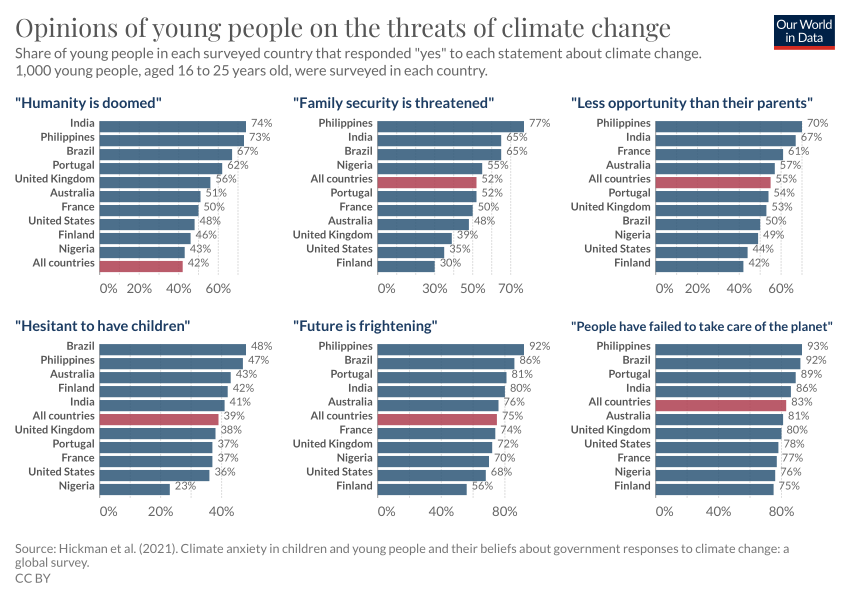
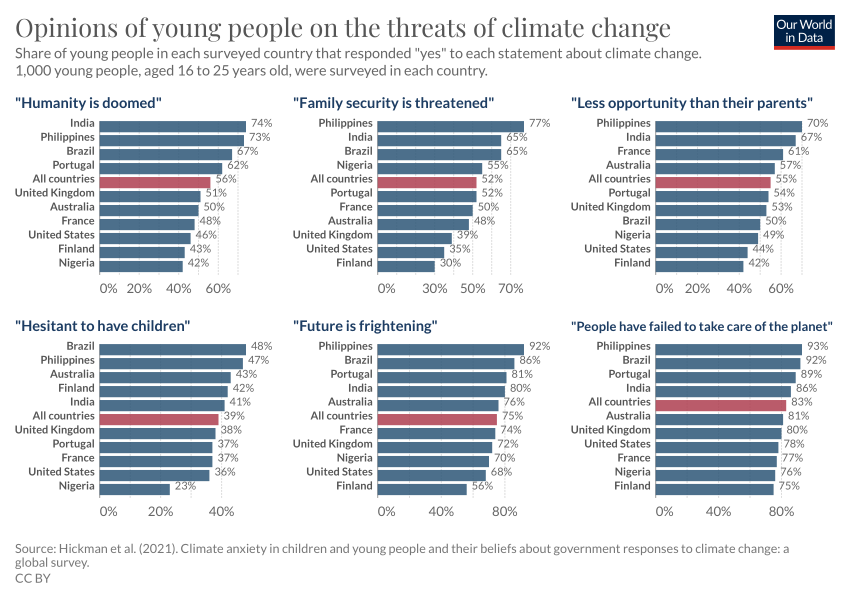
Deploy 2022-08-12T10:32:57.586Z Updating chart opinions-young-people-climate

Changed region(s): [[0.0, 0.27, 0.2447, 0.48]]

diff --git a/co2-emissions.html b/co2-emissions.html
@@ -1,4 +1,4 @@
-<!doctype html><html><head><meta name="viewport" content="width=device-width, initial-scale=1"/><title>CO2 emissions - Our World in Data</title><meta name="description" content="How much CO2 does the world emit? Which countries emit the most?"/><link rel="canonical" href="https://ourworldindata.org/co2-emissions"/><link rel="alternate" type="application/atom+xml" href="/atom.xml"/><link rel="apple-touch-icon" sizes="180x180" href="/apple-touch-icon.png"/><meta property="fb:app_id" content="1149943818390250"/><meta property="og:url" content="https://ourworldindata.org/co2-emissions"/><meta property="og:title" content="CO2 emissions"/><meta property="og:description" content="How much CO2 does the world emit? Which countries emit the most?"/><meta property="og:image" content="https://ourworldindata.org/uploads/2022/03/Screenshot-2022-03-04-at-16.51.31-768x480.png"/><meta property="og:site_name" content="Our World in Data"/><meta name="twitter:card" content="summary_large_image"/><meta name="twitter:site" content="@OurWorldInData"/><meta name="twitter:creator" content="@OurWorldInData"/><meta name="twitter:title" content="CO2 emissions"/><meta name="twitter:description" content="How much CO2 does the world emit? Which countries emit the most?"/><meta name="twitter:image" content="https://ourworldindata.org/uploads/2022/03/Screenshot-2022-03-04-at-16.51.31-768x480.png"/><link href="https://fonts.googleapis.com/css?family=Lato:300,400,400i,700,700i|Playfair+Display:400,700&amp;display=swap" rel="stylesheet"/><link rel="stylesheet" href="https://ourworldindata.org/assets/commons.css"/><link rel="stylesheet" href="https://ourworldindata.org/assets/owid.css"/><meta name="citation_title" content="CO₂ and Greenhouse Gas Emissions"/><meta name="citation_fulltext_html_url" content="https://ourworldindata.org/co2-and-other-greenhouse-gas-emissions"/><meta name="citation_fulltext_world_readable" content=""/><meta name="citation_publication_date" content="2020/05/11"/><meta name="citation_journal_title" content="Our World in Data"/><meta name="citation_journal_abbrev" content="Our World in Data"/><meta name="citation_author" content="Hannah Ritchie"/><meta name="citation_author" content="Max Roser"/><meta name="citation_author" content="Pablo Rosado"/></head><body class=""><header class="site-header"><div class="wrapper site-navigation-bar"><div class="site-logo"><a href="/">Our World<br/> in Data</a></div><nav class="site-navigation"><div class="topics-button-wrapper"><a href="/#entries" class="topics-button"><div class="label">Articles <br/><strong>by topic</strong></div><div class="icon"><svg width="12" height="6"><path d="M0,0 L12,0 L6,6 Z" fill="currentColor"></path></svg></div></a></div><div><div class="site-primary-navigation"><form class="HeaderSearch" action="/search" method="GET"><input type="search" name="q" placeholder="Search..."/><div class="icon"><svg aria-hidden="true" focusable="false" data-prefix="fas" data-icon="magnifying-glass" class="svg-inline--fa fa-magnifying-glass " role="img" xmlns="http://www.w3.org/2000/svg" viewBox="0 0 512 512"><path fill="currentColor" d="M500.3 443.7l-119.7-119.7c27.22-40.41 40.65-90.9 33.46-144.7C401.8 87.79 326.8 13.32 235.2 1.723C99.01-15.51-15.51 99.01 1.724 235.2c11.6 91.64 86.08 166.7 177.6 178.9c53.8 7.189 104.3-6.236 144.7-33.46l119.7 119.7c15.62 15.62 40.95 15.62 56.57 0C515.9 484.7 515.9 459.3 500.3 443.7zM79.1 208c0-70.58 57.42-128 128-128s128 57.42 128 128c0 70.58-57.42 128-128 128S79.1 278.6 79.1 208z"></path></svg></div></form><ul class="site-primary-links"><li><a href="/blog" data-track-note="header-navigation">Latest</a></li><li><a href="/about" data-track-note="header-navigation">About</a></li><li><a href="/donate" data-track-note="header-navigation">Donate</a></li></ul></div><div class="site-secondary-navigation"><ul class="site-secondary-links"><li><a href="/charts" data-track-note="header-navigation">All charts</a></li><li><a href="https://sdg-tracker.org" data-track-note="header-navigation">Sustainable Development Goals Tracker</a></li></ul></div></div></nav><div class="header-logos-wrapper"><a href="https://www.oxfordmartin.ox.ac.uk/global-development" class="oxford-logo"><img src="https://ourworldindata.org/oms-logo.svg" alt="Oxford Martin School logo"/></a><a href="https://global-change-data-lab.org/" class="gcdl-logo"><img src="https://ourworldindata.org/gcdl-logo.svg" alt="Global Change Data Lab logo"/></a></div><div class="mobile-site-navigation"><button data-track-note="mobile-search-button"><svg aria-hidden="true" focusable="false" data-prefix="fas" data-icon="magnifying-glass" class="svg-inline--fa fa-magnifying-glass " role="img" xmlns="http://www.w3.org/2000/svg" viewBox="0 0 512 512"><path fill="currentColor" d="M500.3 443.7l-119.7-119.7c27.22-40.41 40.65-90.9 33.46-144.7C401.8 87.79 326.8 13.32 235.2 1.723C99.01-15.51-15.51 99.01 1.724 235.2c11.6 91.64 86.08 166.7 177.6 178.9c53.8 7.189 104.3-6.236 144.7-33.46l119.7 119.7c15.62 15.62 40.95 15.62 56.57 0C515.9 484.7 515.9 459.3 500.3 443.7zM79.1 208c0-70.58 57.42-128 128-128s128 57.42 128 128c0 70.58-57.42 128-128 128S79.1 278.6 79.1 208z"></path></svg></button><button data-track-note="mobile-newsletter-button"><svg aria-hidden="true" focusable="false" data-prefix="fas" data-icon="envelope-open-text" class="svg-inline--fa fa-envelope-open-text " role="img" xmlns="http://www.w3.org/2000/svg" viewBox="0 0 512 512"><path fill="currentColor" d="M256 417.1c-16.38 0-32.88-4.1-46.88-15.12L0 250.9v213.1C0 490.5 21.5 512 48 512h416c26.5 0 48-21.5 48-47.1V250.9l-209.1 151.1C288.9 412 272.4 417.1 256 417.1zM493.6 163C484.8 156 476.4 149.5 464 140.1v-44.12c0-26.5-21.5-48-48-48l-77.5 .0016c-3.125-2.25-5.875-4.25-9.125-6.5C312.6 29.13 279.3-.3732 256 .0018C232.8-.3732 199.4 29.13 182.6 41.5c-3.25 2.25-6 4.25-9.125 6.5L96 48c-26.5 0-48 21.5-48 48v44.12C35.63 149.5 27.25 156 18.38 163C6.75 172 0 186 0 200.8v10.62l96 69.37V96h320v184.7l96-69.37V200.8C512 186 505.3 172 493.6 163zM176 255.1h160c8.836 0 16-7.164 16-15.1c0-8.838-7.164-16-16-16h-160c-8.836 0-16 7.162-16 16C160 248.8 167.2 255.1 176 255.1zM176 191.1h160c8.836 0 16-7.164 16-16c0-8.838-7.164-15.1-16-15.1h-160c-8.836 0-16 7.162-16 15.1C160 184.8 167.2 191.1 176 191.1z"></path></svg></button><button data-track-note="mobile-hamburger-button"><svg aria-hidden="true" focusable="false" data-prefix="fas" data-icon="bars" class="svg-inline--fa fa-bars " role="img" xmlns="http://www.w3.org/2000/svg" viewBox="0 0 448 512"><path fill="currentColor" d="M0 96C0 78.33 14.33 64 32 64H416C433.7 64 448 78.33 448 96C448 113.7 433.7 128 416 128H32C14.33 128 0 113.7 0 96zM0 256C0 238.3 14.33 224 32 224H416C433.7 224 448 238.3 448 256C448 273.7 433.7 288 416 288H32C14.33 288 0 273.7 0 256zM416 448H32C14.33 448 0 433.7 0 416C0 398.3 14.33 384 32 384H416C433.7 384 448 398.3 448 416C448 433.7 433.7 448 416 448z"></path></svg></button></div></div></header><div class="alert-banner"><div class="content"><div class="text"><strong>COVID-19 vaccinations, cases, excess mortality, and much more</strong></div><a href="/coronavirus#explore-the-global-situation" data-track-note="covid-banner-click">Explore our COVID-19 data</a></div></div><main><article class="page with-sidebar large-banner"><div class="offset-header"><header class="article-header"><div class="article-titles"><h1 class="entry-title">CO2 emissions</h1><div class="breadcrumb"><a href="/">Home</a><span class="separator"><svg aria-hidden="true" focusable="false" data-prefix="fas" data-icon="angle-right" class="svg-inline--fa fa-angle-right " role="img" xmlns="http://www.w3.org/2000/svg" viewBox="0 0 256 512"><path fill="currentColor" d="M64 448c-8.188 0-16.38-3.125-22.62-9.375c-12.5-12.5-12.5-32.75 0-45.25L178.8 256L41.38 118.6c-12.5-12.5-12.5-32.75 0-45.25s32.75-12.5 45.25 0l160 160c12.5 12.5 12.5 32.75 0 45.25l-160 160C80.38 444.9 72.19 448 64 448z"></path></svg></span><a data-track-note="breadcrumb" href="/co2-and-other-greenhouse-gas-emissions">CO₂ and GHG Emissions</a><span class="separator"><svg aria-hidden="true" focusable="false" data-prefix="fas" data-icon="angle-right" class="svg-inline--fa fa-angle-right " role="img" xmlns="http://www.w3.org/2000/svg" viewBox="0 0 256 512"><path fill="currentColor" d="M64 448c-8.188 0-16.38-3.125-22.62-9.375c-12.5-12.5-12.5-32.75 0-45.25L178.8 256L41.38 118.6c-12.5-12.5-12.5-32.75 0-45.25s32.75-12.5 45.25 0l160 160c12.5 12.5 12.5 32.75 0 45.25l-160 160C80.38 444.9 72.19 448 64 448z"></path></svg></span><span>CO₂ emissions</span></div></div><div class="authors-byline"><a href="/team">by Hannah Ritchie and Max Roser</a></div><div class="tools"><a href="#licence"><svg aria-hidden="true" focusable="false" data-prefix="fab" data-icon="creative-commons" class="svg-inline--fa fa-creative-commons " role="img" xmlns="http://www.w3.org/2000/svg" viewBox="0 0 496 512"><path fill="currentColor" d="M245.8 214.9l-33.22 17.28c-9.43-19.58-25.24-19.93-27.46-19.93-22.13 0-33.22 14.61-33.22 43.84 0 23.57 9.21 43.84 33.22 43.84 14.47 0 24.65-7.09 30.57-21.26l30.55 15.5c-6.17 11.51-25.69 38.98-65.1 38.98-22.6 0-73.96-10.32-73.96-77.05 0-58.69 43-77.06 72.63-77.06 30.72-.01 52.7 11.95 65.99 35.86zm143.1 0l-32.78 17.28c-9.5-19.77-25.72-19.93-27.9-19.93-22.14 0-33.22 14.61-33.22 43.84 0 23.55 9.23 43.84 33.22 43.84 14.45 0 24.65-7.09 30.54-21.26l31 15.5c-2.1 3.75-21.39 38.98-65.09 38.98-22.69 0-73.96-9.87-73.96-77.05 0-58.67 42.97-77.06 72.63-77.06 30.71-.01 52.58 11.95 65.56 35.86zM247.6 8.05C104.7 8.05 0 123.1 0 256c0 138.5 113.6 248 247.6 248 129.9 0 248.4-100.9 248.4-248 0-137.9-106.6-248-248.4-248zm.87 450.8c-112.5 0-203.7-93.04-203.7-202.8 0-105.4 85.43-203.3 203.7-203.3 112.5 0 202.8 89.46 202.8 203.3-.01 121.7-99.68 202.8-202.8 202.8z"></path></svg>Reuse our work freely</a><a href="#citation"><svg aria-hidden="true" focusable="false" data-prefix="fas" data-icon="book" class="svg-inline--fa fa-book " role="img" xmlns="http://www.w3.org/2000/svg" viewBox="0 0 448 512"><path fill="currentColor" d="M448 336v-288C448 21.49 426.5 0 400 0H96C42.98 0 0 42.98 0 96v320c0 53.02 42.98 96 96 96h320c17.67 0 32-14.33 32-31.1c0-11.72-6.607-21.52-16-27.1v-81.36C441.8 362.8 448 350.2 448 336zM143.1 128h192C344.8 128 352 135.2 352 144C352 152.8 344.8 160 336 160H143.1C135.2 160 128 152.8 128 144C128 135.2 135.2 128 143.1 128zM143.1 192h192C344.8 192 352 199.2 352 208C352 216.8 344.8 224 336 224H143.1C135.2 224 128 216.8 128 208C128 199.2 135.2 192 143.1 192zM384 448H96c-17.67 0-32-14.33-32-32c0-17.67 14.33-32 32-32h288V448z"></path></svg>Cite this research</a></div></header></div><div class="offset-subnavigation"><div class="site-subnavigation"><div class="site-subnavigation-scroll"><ul class="site-subnavigation-links"><li class="highlight"><a href="/co2-and-other-greenhouse-gas-emissions" data-track-note="co2-subnav-co2-and-ghg-emissions">CO₂ and GHG Emissions<svg aria-hidden="true" focusable="false" data-prefix="fas" data-icon="chevron-left" class="svg-inline--fa fa-chevron-left " role="img" xmlns="http://www.w3.org/2000/svg" viewBox="0 0 320 512"><path fill="currentColor" d="M224 480c-8.188 0-16.38-3.125-22.62-9.375l-192-192c-12.5-12.5-12.5-32.75 0-45.25l192-192c12.5-12.5 32.75-12.5 45.25 0s12.5 32.75 0 45.25L77.25 256l169.4 169.4c12.5 12.5 12.5 32.75 0 45.25C240.4 476.9 232.2 480 224 480z"></path></svg></a></li><li class=""><a href="/co2-and-other-greenhouse-gas-emissions#co2-and-greenhouse-gas-emissions-country-profiles" data-track-note="co2-subnav-by-country">By country</a></li><li class=""><a href="/explorers/co2" data-track-note="co2-subnav-co2-data-explorer">Data explorer</a></li><li class="current"><a href="/co2-emissions" data-track-note="co2-subnav-co2-emissions">CO₂ emissions</a></li><li class=""><a href="/emissions-by-fuel" data-track-note="co2-subnav-by-fuel">CO₂ by fuel</a></li><li class=""><a href="/greenhouse-gas-emissions" data-track-note="co2-subnav-ghg-emissions">GHG emissions</a></li><li class=""><a href="/emissions-by-sector" data-track-note="co2-subnav-by-sector">By sector</a></li><li class=""><a href="/atmospheric-concentrations" data-track-note="co2-subnav-atm-concentrations">Atmospheric concentrations</a></li><li class=""><a href="/explorers/climate-change" data-track-note="co2-subnav-climate-impacts">Climate impacts</a></li></ul></div></div></div><div class="content-wrapper"><div class="toc-wrapper"><aside class="entry-sidebar"><div class="sticky-sentinel"></div><nav class="entry-toc"><ul><li><a href="#" data-track-note="toc-header">CO2 emissions</a></li><li class="section"><a href="#global-co2-emissions-from-fossil-fuels" data-track-note="toc-link">Global CO2 emissions from fossil fuels</a></li><li class="subsection"><a href="#global-co2-emissions-from-fossil-fuels-global-co2-emissions-from-fossil-fuels" data-track-note="toc-link">Global CO2 emissions from fossil fuels</a></li><li class="subsection"><a href="#global-co2-emissions-from-fossil-fuels-and-land-use-change" data-track-note="toc-link">Global CO2 emissions from fossil fuels and land use change</a></li><li class="subsection"><a href="#co2-emissions-by-region" data-track-note="toc-link">CO2 emissions by region</a></li><li class="section"><a href="#per-capita-co2-emissions" data-track-note="toc-link">Per capita CO2 emissions</a></li><li class="section"><a href="#annual-co2-emissions" data-track-note="toc-link">Annual CO2 emissions</a></li><li class="section"><a href="#annual-change-in-co2-emissions" data-track-note="toc-link">Annual change in CO2 emissions</a></li><li class="section"><a href="#cumulative-co2-emissions" data-track-note="toc-link">Cumulative CO2 emissions</a></li><li class="section"><a href="#consumption-based-trade-adjusted-emissions" data-track-note="toc-link">Consumption-based (trade-adjusted) emissions</a></li><li class="section"><a href="#decoupling-co2-emissions-from-economic-growth" data-track-note="toc-link">Decoupling CO₂ emissions from economic growth</a></li><li class="section"><a href="#global-inequalities-in-co2-emissions" data-track-note="toc-link">Global inequalities in CO2 emissions</a></li><li class="subsection"><a href="#global-inequalities-by-production" data-track-note="toc-link">Global inequalities by production</a></li><li class="subsection"><a href="#global-inequalities-by-consumption" data-track-note="toc-link">Global inequalities by consumption</a></li><li class="section"><a href="#how-do-we-measure-or-estimate-co2-emissions" data-track-note="toc-link">How do we measure or estimate CO2 emissions?</a></li><li class="section"><a href="#endnotes" data-track-note="toc-link">Endnotes</a></li><li class="section"><a href="#licence" data-track-note="toc-link">Licence</a></li><li class="section"><a href="#citation" data-track-note="toc-link">Citation</a></li></ul></nav><div class="toggle-toc"><button data-track-note="page-toggle-toc" aria-label="Open table of contents"><svg aria-hidden="true" focusable="false" data-prefix="fas" data-icon="bars" class="svg-inline--fa fa-bars " role="img" xmlns="http://www.w3.org/2000/svg" viewBox="0 0 448 512"><path fill="currentColor" d="M0 96C0 78.33 14.33 64 32 64H416C433.7 64 448 78.33 448 96C448 113.7 433.7 128 416 128H32C14.33 128 0 113.7 0 96zM0 256C0 238.3 14.33 224 32 224H416C433.7 224 448 238.3 448 256C448 273.7 433.7 288 416 288H32C14.33 288 0 273.7 0 256zM416 448H32C14.33 448 0 433.7 0 416C0 398.3 14.33 384 32 384H416C433.7 384 448 398.3 448 416C448 433.7 433.7 448 416 448z"></path></svg><span class="label">Contents</span></button></div></aside></div><div class="offset-content"><div class="content-and-footnotes"><div class="article-content"><section><div class="wp-block-columns is-style-sticky-right"><div class="wp-block-column"><p>You can&nbsp;<strong><a href="https://github.com/owid/co2-data">download</a></strong>&nbsp;our complete <em>Our World in Data</em> CO<sub>2</sub> and Greenhouse Gas Emissions database.</p><hr class="wp-block-separator"><p>Carbon dioxide emissions are the primary driver of global climate change. It’s widely recognised that to avoid the worst impacts of climate change, the world needs to urgently reduce emissions. But, how this responsibility is shared between regions, countries, and individuals has been an endless point of contention in international discussions. </p><p>This debate arises from the various ways in which emissions are compared: as annual emissions by country; emissions per person; historical contributions; and whether they adjust for traded goods and services. These metrics can tell very different stories. </p><p>We teamed up with the YouTube channel, <em>Kurzgesagt</em>, to produce a video which explored these different metrics in detail: <a href="https://www.youtube.com/watch?v=ipVxxxqwBQw">‘Who is responsible for climate change? – Who needs to fix it?’</a>. All of the data and research featured in this video is contained in this article: below we look in detail at the many ways emissions are broken down.</p><div class="wp-container-62f625da0beb5 wp-block-group">    <div class="block-wrapper"><div class="wp-block-owid-prominent-link with-image" data-no-lightbox="true" data-style="is-style-thin" data-title="&nbsp;‘Who is responsible for climate change? – Who needs to fix it?’"><a href="https://www.youtube.com/watch?v=ipVxxxqwBQw"><figure><img width="768" height="433" src="https://ourworldindata.org/uploads/2020/06/CO2-Kurzgesagt-768x433.png" class="attachment-medium_large size-medium_large" alt="Co2 kurzgesagt" loading="lazy" srcset="https://ourworldindata.org/uploads/2020/06/CO2-Kurzgesagt-768x433.png 768w, https://ourworldindata.org/uploads/2020/06/CO2-Kurzgesagt-400x225.png 400w, https://ourworldindata.org/uploads/2020/06/CO2-Kurzgesagt-800x451.png 800w, https://ourworldindata.org/uploads/2020/06/CO2-Kurzgesagt-150x84.png 150w, https://ourworldindata.org/uploads/2020/06/CO2-Kurzgesagt.png 1422w" sizes="(max-width: 768px) 100vw, 768px" data-high-res-src="https://ourworldindata.org/uploads/2020/06/CO2-Kurzgesagt.png"></figure><div class="content-wrapper"><div class="content">
+<!doctype html><html><head><meta name="viewport" content="width=device-width, initial-scale=1"/><title>CO2 emissions - Our World in Data</title><meta name="description" content="How much CO2 does the world emit? Which countries emit the most?"/><link rel="canonical" href="https://ourworldindata.org/co2-emissions"/><link rel="alternate" type="application/atom+xml" href="/atom.xml"/><link rel="apple-touch-icon" sizes="180x180" href="/apple-touch-icon.png"/><meta property="fb:app_id" content="1149943818390250"/><meta property="og:url" content="https://ourworldindata.org/co2-emissions"/><meta property="og:title" content="CO2 emissions"/><meta property="og:description" content="How much CO2 does the world emit? Which countries emit the most?"/><meta property="og:image" content="https://ourworldindata.org/uploads/2022/03/Screenshot-2022-03-04-at-16.51.31-768x480.png"/><meta property="og:site_name" content="Our World in Data"/><meta name="twitter:card" content="summary_large_image"/><meta name="twitter:site" content="@OurWorldInData"/><meta name="twitter:creator" content="@OurWorldInData"/><meta name="twitter:title" content="CO2 emissions"/><meta name="twitter:description" content="How much CO2 does the world emit? Which countries emit the most?"/><meta name="twitter:image" content="https://ourworldindata.org/uploads/2022/03/Screenshot-2022-03-04-at-16.51.31-768x480.png"/><link href="https://fonts.googleapis.com/css?family=Lato:300,400,400i,700,700i|Playfair+Display:400,700&amp;display=swap" rel="stylesheet"/><link rel="stylesheet" href="https://ourworldindata.org/assets/commons.css"/><link rel="stylesheet" href="https://ourworldindata.org/assets/owid.css"/><meta name="citation_title" content="CO₂ and Greenhouse Gas Emissions"/><meta name="citation_fulltext_html_url" content="https://ourworldindata.org/co2-and-other-greenhouse-gas-emissions"/><meta name="citation_fulltext_world_readable" content=""/><meta name="citation_publication_date" content="2020/05/11"/><meta name="citation_journal_title" content="Our World in Data"/><meta name="citation_journal_abbrev" content="Our World in Data"/><meta name="citation_author" content="Hannah Ritchie"/><meta name="citation_author" content="Max Roser"/><meta name="citation_author" content="Pablo Rosado"/></head><body class=""><header class="site-header"><div class="wrapper site-navigation-bar"><div class="site-logo"><a href="/">Our World<br/> in Data</a></div><nav class="site-navigation"><div class="topics-button-wrapper"><a href="/#entries" class="topics-button"><div class="label">Articles <br/><strong>by topic</strong></div><div class="icon"><svg width="12" height="6"><path d="M0,0 L12,0 L6,6 Z" fill="currentColor"></path></svg></div></a></div><div><div class="site-primary-navigation"><form class="HeaderSearch" action="/search" method="GET"><input type="search" name="q" placeholder="Search..."/><div class="icon"><svg aria-hidden="true" focusable="false" data-prefix="fas" data-icon="magnifying-glass" class="svg-inline--fa fa-magnifying-glass " role="img" xmlns="http://www.w3.org/2000/svg" viewBox="0 0 512 512"><path fill="currentColor" d="M500.3 443.7l-119.7-119.7c27.22-40.41 40.65-90.9 33.46-144.7C401.8 87.79 326.8 13.32 235.2 1.723C99.01-15.51-15.51 99.01 1.724 235.2c11.6 91.64 86.08 166.7 177.6 178.9c53.8 7.189 104.3-6.236 144.7-33.46l119.7 119.7c15.62 15.62 40.95 15.62 56.57 0C515.9 484.7 515.9 459.3 500.3 443.7zM79.1 208c0-70.58 57.42-128 128-128s128 57.42 128 128c0 70.58-57.42 128-128 128S79.1 278.6 79.1 208z"></path></svg></div></form><ul class="site-primary-links"><li><a href="/blog" data-track-note="header-navigation">Latest</a></li><li><a href="/about" data-track-note="header-navigation">About</a></li><li><a href="/donate" data-track-note="header-navigation">Donate</a></li></ul></div><div class="site-secondary-navigation"><ul class="site-secondary-links"><li><a href="/charts" data-track-note="header-navigation">All charts</a></li><li><a href="https://sdg-tracker.org" data-track-note="header-navigation">Sustainable Development Goals Tracker</a></li></ul></div></div></nav><div class="header-logos-wrapper"><a href="https://www.oxfordmartin.ox.ac.uk/global-development" class="oxford-logo"><img src="https://ourworldindata.org/oms-logo.svg" alt="Oxford Martin School logo"/></a><a href="https://global-change-data-lab.org/" class="gcdl-logo"><img src="https://ourworldindata.org/gcdl-logo.svg" alt="Global Change Data Lab logo"/></a></div><div class="mobile-site-navigation"><button data-track-note="mobile-search-button"><svg aria-hidden="true" focusable="false" data-prefix="fas" data-icon="magnifying-glass" class="svg-inline--fa fa-magnifying-glass " role="img" xmlns="http://www.w3.org/2000/svg" viewBox="0 0 512 512"><path fill="currentColor" d="M500.3 443.7l-119.7-119.7c27.22-40.41 40.65-90.9 33.46-144.7C401.8 87.79 326.8 13.32 235.2 1.723C99.01-15.51-15.51 99.01 1.724 235.2c11.6 91.64 86.08 166.7 177.6 178.9c53.8 7.189 104.3-6.236 144.7-33.46l119.7 119.7c15.62 15.62 40.95 15.62 56.57 0C515.9 484.7 515.9 459.3 500.3 443.7zM79.1 208c0-70.58 57.42-128 128-128s128 57.42 128 128c0 70.58-57.42 128-128 128S79.1 278.6 79.1 208z"></path></svg></button><button data-track-note="mobile-newsletter-button"><svg aria-hidden="true" focusable="false" data-prefix="fas" data-icon="envelope-open-text" class="svg-inline--fa fa-envelope-open-text " role="img" xmlns="http://www.w3.org/2000/svg" viewBox="0 0 512 512"><path fill="currentColor" d="M256 417.1c-16.38 0-32.88-4.1-46.88-15.12L0 250.9v213.1C0 490.5 21.5 512 48 512h416c26.5 0 48-21.5 48-47.1V250.9l-209.1 151.1C288.9 412 272.4 417.1 256 417.1zM493.6 163C484.8 156 476.4 149.5 464 140.1v-44.12c0-26.5-21.5-48-48-48l-77.5 .0016c-3.125-2.25-5.875-4.25-9.125-6.5C312.6 29.13 279.3-.3732 256 .0018C232.8-.3732 199.4 29.13 182.6 41.5c-3.25 2.25-6 4.25-9.125 6.5L96 48c-26.5 0-48 21.5-48 48v44.12C35.63 149.5 27.25 156 18.38 163C6.75 172 0 186 0 200.8v10.62l96 69.37V96h320v184.7l96-69.37V200.8C512 186 505.3 172 493.6 163zM176 255.1h160c8.836 0 16-7.164 16-15.1c0-8.838-7.164-16-16-16h-160c-8.836 0-16 7.162-16 16C160 248.8 167.2 255.1 176 255.1zM176 191.1h160c8.836 0 16-7.164 16-16c0-8.838-7.164-15.1-16-15.1h-160c-8.836 0-16 7.162-16 15.1C160 184.8 167.2 191.1 176 191.1z"></path></svg></button><button data-track-note="mobile-hamburger-button"><svg aria-hidden="true" focusable="false" data-prefix="fas" data-icon="bars" class="svg-inline--fa fa-bars " role="img" xmlns="http://www.w3.org/2000/svg" viewBox="0 0 448 512"><path fill="currentColor" d="M0 96C0 78.33 14.33 64 32 64H416C433.7 64 448 78.33 448 96C448 113.7 433.7 128 416 128H32C14.33 128 0 113.7 0 96zM0 256C0 238.3 14.33 224 32 224H416C433.7 224 448 238.3 448 256C448 273.7 433.7 288 416 288H32C14.33 288 0 273.7 0 256zM416 448H32C14.33 448 0 433.7 0 416C0 398.3 14.33 384 32 384H416C433.7 384 448 398.3 448 416C448 433.7 433.7 448 416 448z"></path></svg></button></div></div></header><div class="alert-banner"><div class="content"><div class="text"><strong>COVID-19 vaccinations, cases, excess mortality, and much more</strong></div><a href="/coronavirus#explore-the-global-situation" data-track-note="covid-banner-click">Explore our COVID-19 data</a></div></div><main><article class="page with-sidebar large-banner"><div class="offset-header"><header class="article-header"><div class="article-titles"><h1 class="entry-title">CO2 emissions</h1><div class="breadcrumb"><a href="/">Home</a><span class="separator"><svg aria-hidden="true" focusable="false" data-prefix="fas" data-icon="angle-right" class="svg-inline--fa fa-angle-right " role="img" xmlns="http://www.w3.org/2000/svg" viewBox="0 0 256 512"><path fill="currentColor" d="M64 448c-8.188 0-16.38-3.125-22.62-9.375c-12.5-12.5-12.5-32.75 0-45.25L178.8 256L41.38 118.6c-12.5-12.5-12.5-32.75 0-45.25s32.75-12.5 45.25 0l160 160c12.5 12.5 12.5 32.75 0 45.25l-160 160C80.38 444.9 72.19 448 64 448z"></path></svg></span><a data-track-note="breadcrumb" href="/co2-and-other-greenhouse-gas-emissions">CO₂ and GHG Emissions</a><span class="separator"><svg aria-hidden="true" focusable="false" data-prefix="fas" data-icon="angle-right" class="svg-inline--fa fa-angle-right " role="img" xmlns="http://www.w3.org/2000/svg" viewBox="0 0 256 512"><path fill="currentColor" d="M64 448c-8.188 0-16.38-3.125-22.62-9.375c-12.5-12.5-12.5-32.75 0-45.25L178.8 256L41.38 118.6c-12.5-12.5-12.5-32.75 0-45.25s32.75-12.5 45.25 0l160 160c12.5 12.5 12.5 32.75 0 45.25l-160 160C80.38 444.9 72.19 448 64 448z"></path></svg></span><span>CO₂ emissions</span></div></div><div class="authors-byline"><a href="/team">by Hannah Ritchie and Max Roser</a></div><div class="tools"><a href="#licence"><svg aria-hidden="true" focusable="false" data-prefix="fab" data-icon="creative-commons" class="svg-inline--fa fa-creative-commons " role="img" xmlns="http://www.w3.org/2000/svg" viewBox="0 0 496 512"><path fill="currentColor" d="M245.8 214.9l-33.22 17.28c-9.43-19.58-25.24-19.93-27.46-19.93-22.13 0-33.22 14.61-33.22 43.84 0 23.57 9.21 43.84 33.22 43.84 14.47 0 24.65-7.09 30.57-21.26l30.55 15.5c-6.17 11.51-25.69 38.98-65.1 38.98-22.6 0-73.96-10.32-73.96-77.05 0-58.69 43-77.06 72.63-77.06 30.72-.01 52.7 11.95 65.99 35.86zm143.1 0l-32.78 17.28c-9.5-19.77-25.72-19.93-27.9-19.93-22.14 0-33.22 14.61-33.22 43.84 0 23.55 9.23 43.84 33.22 43.84 14.45 0 24.65-7.09 30.54-21.26l31 15.5c-2.1 3.75-21.39 38.98-65.09 38.98-22.69 0-73.96-9.87-73.96-77.05 0-58.67 42.97-77.06 72.63-77.06 30.71-.01 52.58 11.95 65.56 35.86zM247.6 8.05C104.7 8.05 0 123.1 0 256c0 138.5 113.6 248 247.6 248 129.9 0 248.4-100.9 248.4-248 0-137.9-106.6-248-248.4-248zm.87 450.8c-112.5 0-203.7-93.04-203.7-202.8 0-105.4 85.43-203.3 203.7-203.3 112.5 0 202.8 89.46 202.8 203.3-.01 121.7-99.68 202.8-202.8 202.8z"></path></svg>Reuse our work freely</a><a href="#citation"><svg aria-hidden="true" focusable="false" data-prefix="fas" data-icon="book" class="svg-inline--fa fa-book " role="img" xmlns="http://www.w3.org/2000/svg" viewBox="0 0 448 512"><path fill="currentColor" d="M448 336v-288C448 21.49 426.5 0 400 0H96C42.98 0 0 42.98 0 96v320c0 53.02 42.98 96 96 96h320c17.67 0 32-14.33 32-31.1c0-11.72-6.607-21.52-16-27.1v-81.36C441.8 362.8 448 350.2 448 336zM143.1 128h192C344.8 128 352 135.2 352 144C352 152.8 344.8 160 336 160H143.1C135.2 160 128 152.8 128 144C128 135.2 135.2 128 143.1 128zM143.1 192h192C344.8 192 352 199.2 352 208C352 216.8 344.8 224 336 224H143.1C135.2 224 128 216.8 128 208C128 199.2 135.2 192 143.1 192zM384 448H96c-17.67 0-32-14.33-32-32c0-17.67 14.33-32 32-32h288V448z"></path></svg>Cite this research</a></div></header></div><div class="offset-subnavigation"><div class="site-subnavigation"><div class="site-subnavigation-scroll"><ul class="site-subnavigation-links"><li class="highlight"><a href="/co2-and-other-greenhouse-gas-emissions" data-track-note="co2-subnav-co2-and-ghg-emissions">CO₂ and GHG Emissions<svg aria-hidden="true" focusable="false" data-prefix="fas" data-icon="chevron-left" class="svg-inline--fa fa-chevron-left " role="img" xmlns="http://www.w3.org/2000/svg" viewBox="0 0 320 512"><path fill="currentColor" d="M224 480c-8.188 0-16.38-3.125-22.62-9.375l-192-192c-12.5-12.5-12.5-32.75 0-45.25l192-192c12.5-12.5 32.75-12.5 45.25 0s12.5 32.75 0 45.25L77.25 256l169.4 169.4c12.5 12.5 12.5 32.75 0 45.25C240.4 476.9 232.2 480 224 480z"></path></svg></a></li><li class=""><a href="/co2-and-other-greenhouse-gas-emissions#co2-and-greenhouse-gas-emissions-country-profiles" data-track-note="co2-subnav-by-country">By country</a></li><li class=""><a href="/explorers/co2" data-track-note="co2-subnav-co2-data-explorer">Data explorer</a></li><li class="current"><a href="/co2-emissions" data-track-note="co2-subnav-co2-emissions">CO₂ emissions</a></li><li class=""><a href="/emissions-by-fuel" data-track-note="co2-subnav-by-fuel">CO₂ by fuel</a></li><li class=""><a href="/greenhouse-gas-emissions" data-track-note="co2-subnav-ghg-emissions">GHG emissions</a></li><li class=""><a href="/emissions-by-sector" data-track-note="co2-subnav-by-sector">By sector</a></li><li class=""><a href="/atmospheric-concentrations" data-track-note="co2-subnav-atm-concentrations">Atmospheric concentrations</a></li><li class=""><a href="/explorers/climate-change" data-track-note="co2-subnav-climate-impacts">Climate impacts</a></li></ul></div></div></div><div class="content-wrapper"><div class="toc-wrapper"><aside class="entry-sidebar"><div class="sticky-sentinel"></div><nav class="entry-toc"><ul><li><a href="#" data-track-note="toc-header">CO2 emissions</a></li><li class="section"><a href="#global-co2-emissions-from-fossil-fuels" data-track-note="toc-link">Global CO2 emissions from fossil fuels</a></li><li class="subsection"><a href="#global-co2-emissions-from-fossil-fuels-global-co2-emissions-from-fossil-fuels" data-track-note="toc-link">Global CO2 emissions from fossil fuels</a></li><li class="subsection"><a href="#global-co2-emissions-from-fossil-fuels-and-land-use-change" data-track-note="toc-link">Global CO2 emissions from fossil fuels and land use change</a></li><li class="subsection"><a href="#co2-emissions-by-region" data-track-note="toc-link">CO2 emissions by region</a></li><li class="section"><a href="#per-capita-co2-emissions" data-track-note="toc-link">Per capita CO2 emissions</a></li><li class="section"><a href="#annual-co2-emissions" data-track-note="toc-link">Annual CO2 emissions</a></li><li class="section"><a href="#annual-change-in-co2-emissions" data-track-note="toc-link">Annual change in CO2 emissions</a></li><li class="section"><a href="#cumulative-co2-emissions" data-track-note="toc-link">Cumulative CO2 emissions</a></li><li class="section"><a href="#consumption-based-trade-adjusted-emissions" data-track-note="toc-link">Consumption-based (trade-adjusted) emissions</a></li><li class="section"><a href="#decoupling-co2-emissions-from-economic-growth" data-track-note="toc-link">Decoupling CO₂ emissions from economic growth</a></li><li class="section"><a href="#global-inequalities-in-co2-emissions" data-track-note="toc-link">Global inequalities in CO2 emissions</a></li><li class="subsection"><a href="#global-inequalities-by-production" data-track-note="toc-link">Global inequalities by production</a></li><li class="subsection"><a href="#global-inequalities-by-consumption" data-track-note="toc-link">Global inequalities by consumption</a></li><li class="section"><a href="#how-do-we-measure-or-estimate-co2-emissions" data-track-note="toc-link">How do we measure or estimate CO2 emissions?</a></li><li class="section"><a href="#endnotes" data-track-note="toc-link">Endnotes</a></li><li class="section"><a href="#licence" data-track-note="toc-link">Licence</a></li><li class="section"><a href="#citation" data-track-note="toc-link">Citation</a></li></ul></nav><div class="toggle-toc"><button data-track-note="page-toggle-toc" aria-label="Open table of contents"><svg aria-hidden="true" focusable="false" data-prefix="fas" data-icon="bars" class="svg-inline--fa fa-bars " role="img" xmlns="http://www.w3.org/2000/svg" viewBox="0 0 448 512"><path fill="currentColor" d="M0 96C0 78.33 14.33 64 32 64H416C433.7 64 448 78.33 448 96C448 113.7 433.7 128 416 128H32C14.33 128 0 113.7 0 96zM0 256C0 238.3 14.33 224 32 224H416C433.7 224 448 238.3 448 256C448 273.7 433.7 288 416 288H32C14.33 288 0 273.7 0 256zM416 448H32C14.33 448 0 433.7 0 416C0 398.3 14.33 384 32 384H416C433.7 384 448 398.3 448 416C448 433.7 433.7 448 416 448z"></path></svg><span class="label">Contents</span></button></div></aside></div><div class="offset-content"><div class="content-and-footnotes"><div class="article-content"><section><div class="wp-block-columns is-style-sticky-right"><div class="wp-block-column"><p>You can&nbsp;<strong><a href="https://github.com/owid/co2-data">download</a></strong>&nbsp;our complete <em>Our World in Data</em> CO<sub>2</sub> and Greenhouse Gas Emissions database.</p><hr class="wp-block-separator"><p>Carbon dioxide emissions are the primary driver of global climate change. It’s widely recognised that to avoid the worst impacts of climate change, the world needs to urgently reduce emissions. But, how this responsibility is shared between regions, countries, and individuals has been an endless point of contention in international discussions. </p><p>This debate arises from the various ways in which emissions are compared: as annual emissions by country; emissions per person; historical contributions; and whether they adjust for traded goods and services. These metrics can tell very different stories. </p><p>We teamed up with the YouTube channel, <em>Kurzgesagt</em>, to produce a video which explored these different metrics in detail: <a href="https://www.youtube.com/watch?v=ipVxxxqwBQw">‘Who is responsible for climate change? – Who needs to fix it?’</a>. All of the data and research featured in this video is contained in this article: below we look in detail at the many ways emissions are broken down.</p><div class="wp-container-62f62c7ada4d0 wp-block-group">    <div class="block-wrapper"><div class="wp-block-owid-prominent-link with-image" data-no-lightbox="true" data-style="is-style-thin" data-title="&nbsp;‘Who is responsible for climate change? – Who needs to fix it?’"><a href="https://www.youtube.com/watch?v=ipVxxxqwBQw"><figure><img width="768" height="433" src="https://ourworldindata.org/uploads/2020/06/CO2-Kurzgesagt-768x433.png" class="attachment-medium_large size-medium_large" alt="Co2 kurzgesagt" loading="lazy" srcset="https://ourworldindata.org/uploads/2020/06/CO2-Kurzgesagt-768x433.png 768w, https://ourworldindata.org/uploads/2020/06/CO2-Kurzgesagt-400x225.png 400w, https://ourworldindata.org/uploads/2020/06/CO2-Kurzgesagt-800x451.png 800w, https://ourworldindata.org/uploads/2020/06/CO2-Kurzgesagt-150x84.png 150w, https://ourworldindata.org/uploads/2020/06/CO2-Kurzgesagt.png 1422w" sizes="(max-width: 768px) 100vw, 768px" data-high-res-src="https://ourworldindata.org/uploads/2020/06/CO2-Kurzgesagt.png"></figure><div class="content-wrapper"><div class="content">
 
 <p>We teamed up with YouTube channel <em>Kurzgesagt</em> to make a video on comparisons of CO<sub>2</sub> emissions.</p>
 

diff --git a/energy-archive.html b/energy-archive.html
@@ -200,7 +200,7 @@
 
 
 
-<div class="wp-container-62f625d7abc16 wp-block-group"><div class="wp-block-group__inner-container">
+<div class="wp-container-62f62c7911a8d wp-block-group"><div class="wp-block-group__inner-container">
 <ul class="covid-country-tiles"><li><a href="https://ourworldindata.org/energy/country/united-states?country=~USA">United States</a></li><li><a href="https://ourworldindata.org/energy/country/united-kingdom?country=~GBR">United Kingdom</a></li><li><a href="https://ourworldindata.org/energy/country/china?country=~CHN">China</a></li><li><a href="https://ourworldindata.org/energy/country/india?country=~IND">India</a></li><li><a href="https://ourworldindata.org/energy/country/brazil?country=~BRA">Brazil</a></li><li><a href="https://ourworldindata.org/energy/country/south-africa?country=~ZAF">South Africa</a></li><li><a href="https://ourworldindata.org/energy/country/germany?country=~DEU">Germany</a></li><li><a href="https://ourworldindata.org/energy/country/spain?country=~ESP">Spain</a></li><li><a href="https://ourworldindata.org/energy/country/france?country=~FRA">France</a></li><li><a href="https://ourworldindata.org/energy/country/canada?country=~CAN">Canada</a></li><li><a href="https://ourworldindata.org/energy/country/australia?country=~AUS">Australia</a></li><li><a href="https://ourworldindata.org/energy/country/sweden?country=~SWE">Sweden</a></li></ul>
 </div></div>
 </div>

diff --git a/co2-and-other-greenhouse-gas-emissions.html b/co2-and-other-greenhouse-gas-emissions.html
@@ -22,7 +22,7 @@
 
 
 
-<div class="wp-container-62f625da21fad wp-block-group">
+<div class="wp-container-62f62c7af02d4 wp-block-group">
 <ul class="covid-country-tiles"><li><a href="https://ourworldindata.org/co2/country/united-states?country=~USA">United States</a></li><li><a href="https://ourworldindata.org/co2/country/united-kingdom?country=~GBR">United Kingdom</a></li><li><a href="https://ourworldindata.org/co2/country/china?country=~CHN">China</a></li><li><a href="https://ourworldindata.org/co2/country/india?country=~IND">India</a></li><li><a href="https://ourworldindata.org/co2/country/brazil?country=~BRA">Brazil</a></li><li><a href="https://ourworldindata.org/co2/country/south-africa?country=~ZAF">South Africa</a></li><li><a href="https://ourworldindata.org/co2/country/germany?country=~DEU">Germany</a></li><li><a href="https://ourworldindata.org/co2/country/spain?country=~ESP">Spain</a></li><li><a href="https://ourworldindata.org/co2/country/france?country=~FRA">France</a></li><li><a href="https://ourworldindata.org/co2/country/canada?country=~CAN">Canada</a></li><li><a href="https://ourworldindata.org/co2/country/australia?country=~AUS">Australia</a></li><li><a href="https://ourworldindata.org/co2/country/sweden?country=~SWE">Sweden</a></li></ul>
 </div>
 </div>

diff --git a/democracy.html b/democracy.html
@@ -1550,7 +1550,7 @@ Justifies democracy characteristics</td>
 
 
 
-<div class="wp-container-62f625df33450 wp-block-group">
+<div class="wp-container-62f62c7fd08bd wp-block-group">
 <ul><li><strong>full democracy</strong>: comprehensive extent of democracy, few weaknesses</li><li><strong>flawed democracy</strong>: some weaknesses in democratic institutions and culture</li><li><strong>hybrid regime</strong>: serious weaknesses in democratic institutions and culture</li><li><strong>authoritarian regime</strong>: few democratic institutions and little democratic culture</li></ul>
 </div>
 </div>

diff --git a/democracies-measurement.html b/democracies-measurement.html
@@ -531,7 +531,7 @@ Justifies democracy characteristics</td>
 
 
 
-<div class="wp-container-62f625d149c93 wp-block-group">
+<div class="wp-container-62f62c730a7c0 wp-block-group">
 <ul><li><strong>full democracy</strong>: comprehensive extent of democracy, few weaknesses</li><li><strong>flawed democracy</strong>: some weaknesses in democratic institutions and culture</li><li><strong>hybrid regime</strong>: serious weaknesses in democratic institutions and culture</li><li><strong>authoritarian regime</strong>: few democratic institutions and little democratic culture</li></ul>
 </div>
 </div>

diff --git a/grapher/opinions-young-people-climate.html b/grapher/opinions-young-people-climate.html
@@ -29,7 +29,7 @@
     "min": 0,
     "facetDomain": "independent"
   },
-  "version": 3,
+  "version": 4,
   "subtitle": "Share of young people in each surveyed country that responded \"yes\" to each statement about climate change. 1,000 young people, aged 16 to 25 years old, were surveyed in each country.",
   "colorScale": {
     "baseColorScheme": "owid-distinct"
